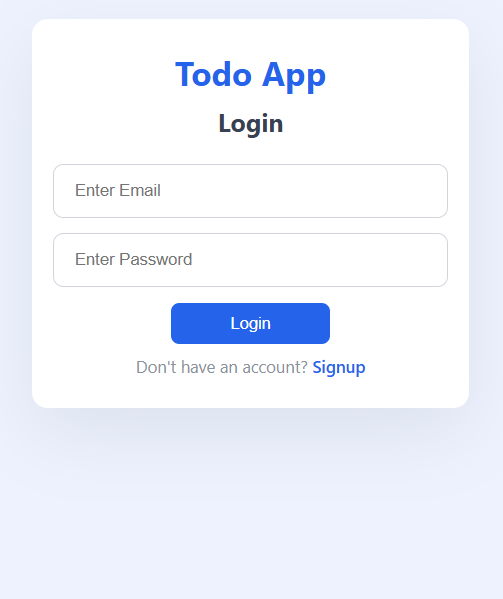
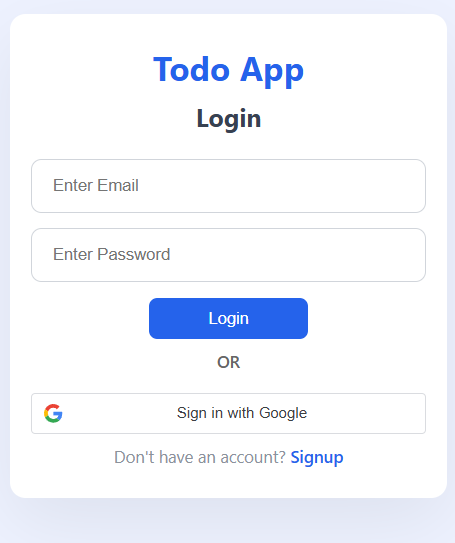
Update README and login screenshot for Google Sign-In

diff --git a/README.md b/README.md
@@ -1,6 +1,7 @@
-# MERN Todo App with JWT Authentication
+# MERN Todo App with JWT & Google Authentication
 
-A full-stack Todo Application built using the MERN Stack (MongoDB, Express.js, React.js, and Node.js). The application allows users to create an account, securely log in using JSON Web Tokens (JWT), and manage their own personal tasks. Each user can only access, create, update, and delete their own tasks.
+A full-stack Todo Application built using the MERN Stack (MongoDB, Express.js, React.js, and Node.js).
+The application allows users to register an account, log in using either Email & Password or Google Sign-In, and securely manage their own personal tasks using JSON Web Tokens (JWT). Every user can only access, create, update, and delete their own tasks.
 
 ---
 
@@ -38,7 +39,8 @@ A full-stack Todo Application built using the MERN Stack (MongoDB, Express.js, R
 ## Features
 
 - User Signup
-- User Login
+- User Login (Email & Password)
+- Google Sign-In
 - JWT Authentication
 - Protected Routes
 - User-specific Tasks
@@ -62,6 +64,7 @@ A full-stack Todo Application built using the MERN Stack (MongoDB, Express.js, R
 - JavaScript (ES6)
 - Axios
 - CSS3
+- @react-oauth/google
 
 ### Backend
 
@@ -69,6 +72,8 @@ A full-stack Todo Application built using the MERN Stack (MongoDB, Express.js, R
 - Express.js
 - JSON Web Token (JWT)
 - bcryptjs
+- Google OAuth
+- google-auth-library
 
 ### Database
 
@@ -142,15 +147,28 @@ todo-react-app/
 
 ## Authentication Flow
 
-1. A new user registers using the Signup page.
-2. The password is securely hashed using bcryptjs before being stored in MongoDB.
-3. The user logs in using their email and password.
-4. The server verifies the credentials.
-5. A JWT token is generated.
-6. The token is stored in the browser's Local Storage.
-7. Every protected request sends the token in the Authorization header.
-8. The backend verifies the token before processing the request.
-9. Each user can only access their own tasks.
+### Email & Password
+
+1. User creates an account.
+2. Password is hashed using bcryptjs.
+3. User logs in.
+4. Server verifies credentials.
+5. JWT token is generated.
+6. JWT is stored in Local Storage.
+7. Protected requests include the JWT.
+8. Backend verifies the JWT.
+9. User accesses only their own tasks.
+
+### Google Sign-In
+
+1. User clicks **Continue with Google**.
+2. Google authenticates the user.
+3. Google sends an ID Token.
+4. Backend verifies the Google ID Token.
+5. If the user does not exist, a new account is created automatically.
+6. Backend generates its own JWT.
+7. JWT is stored in Local Storage.
+8. User accesses only their own tasks.
 
 ---
 
@@ -162,6 +180,7 @@ todo-react-app/
 | ------ | ------------------ | ---------------------- |
 | POST   | `/api/auth/signup` | Register a new user    |
 | POST   | `/api/auth/login`  | Login an existing user |
+| POST   | `/api/auth/google`  | Login with google |
 
 ### Task APIs
 
@@ -273,6 +292,12 @@ MongoDB
 - Filter Tasks
 - Dark Mode
 - Deploy Backend and Frontend
+- Edit User Profile
+- Change Password
+- Remember Me
+- Task Sharing
+- Notifications
+- Mobile Responsive Improvements
 
 ---
 